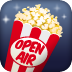
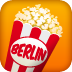
Fixed Kinopilot assets

diff --git a/iM3Example/M3AppDelegate.h b/iM3Example/M3AppDelegate.h
@@ -14,8 +14,8 @@
 #define FACEBOOK NO
 
 
-#define APP_KINOPILOT 0
-#define APP_FLK       1
+#define APP_KINOPILOT 1
+#define APP_FLK       0
 
 #if APP_KINOPILOT
 
